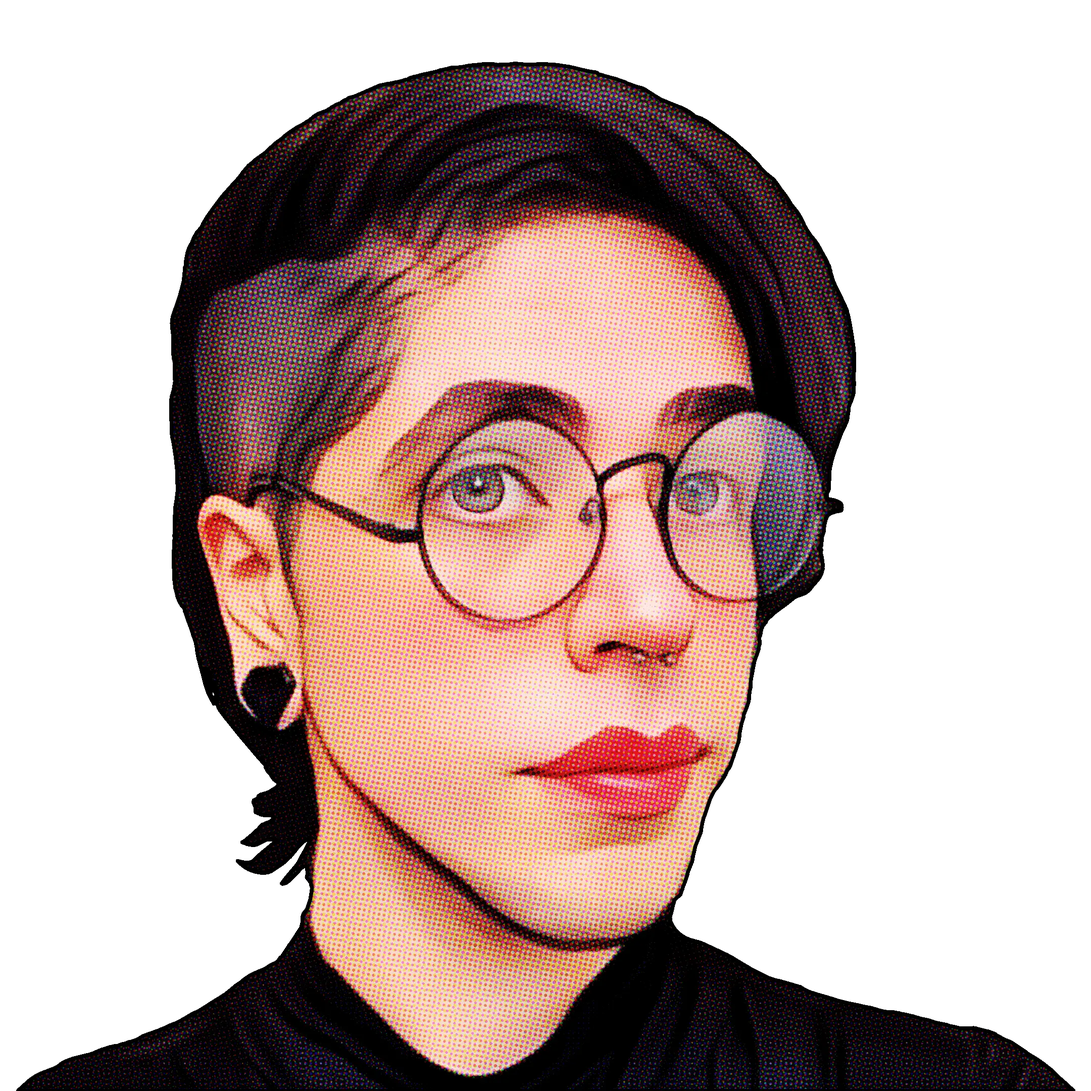
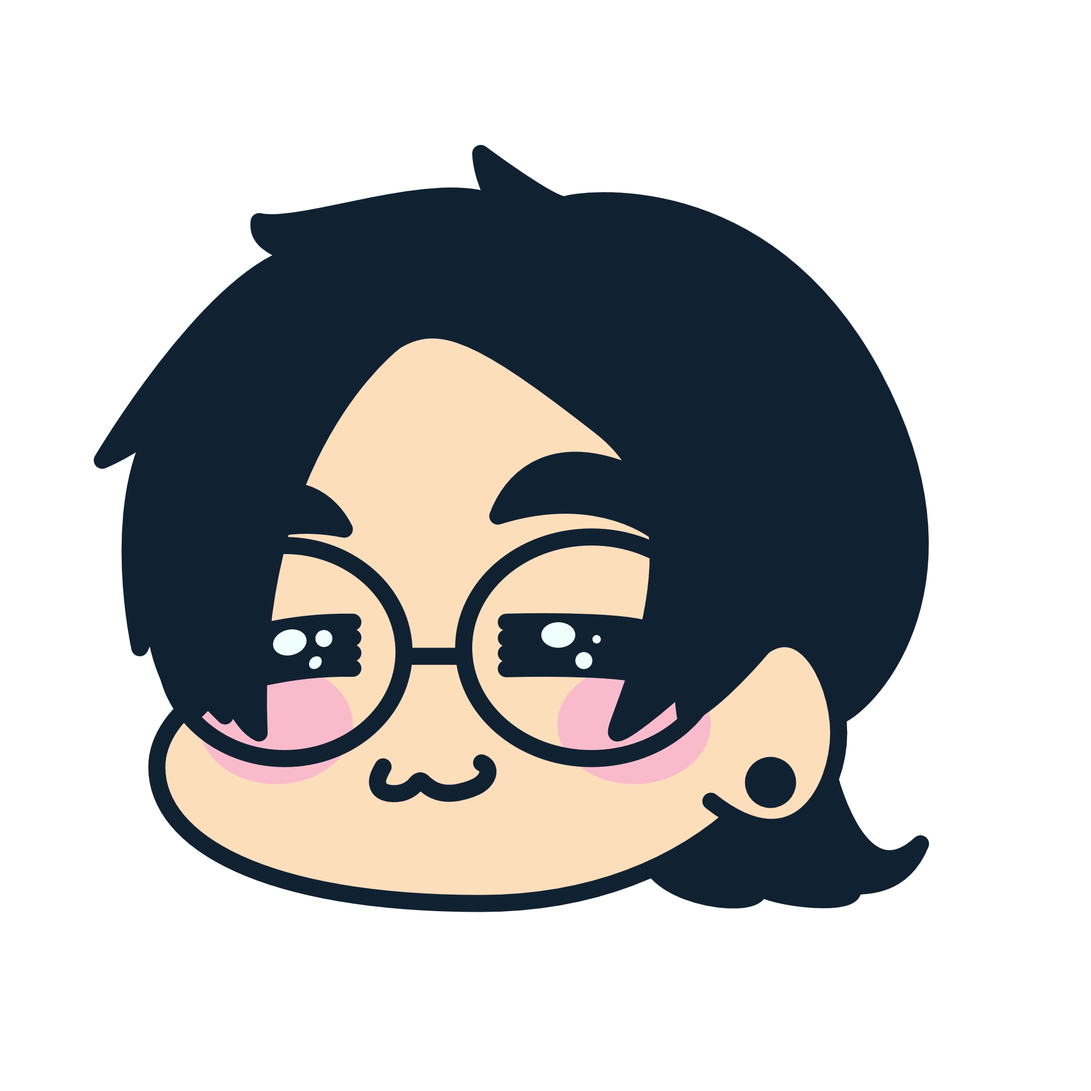
🍱 update ugly me with chibi me

diff --git a/docs/src/tailwind.css b/docs/src/tailwind.css
@@ -84,7 +84,7 @@ main .content-panel:first-child:not(:only-child) + .content-panel {
 
 .hero img,
 .site-title img {
-	@apply rounded-full bg-accent-600 dark:bg-accent-200;
+	@apply rounded-full; /* bg-accent-600 dark:bg-accent-200; */
 }
 
 table {
